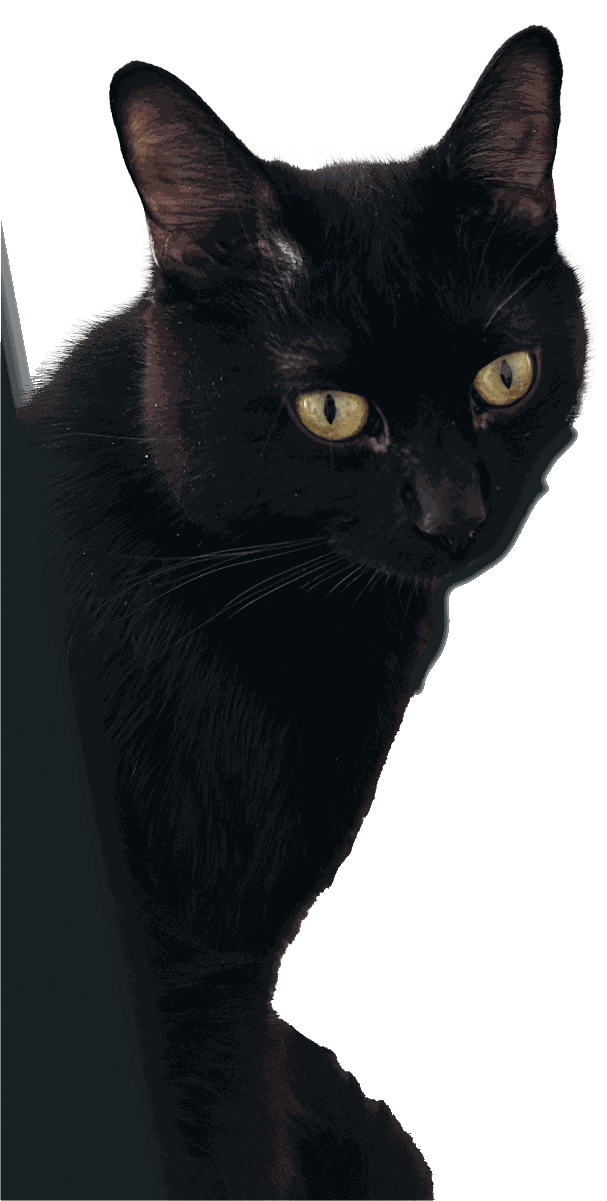
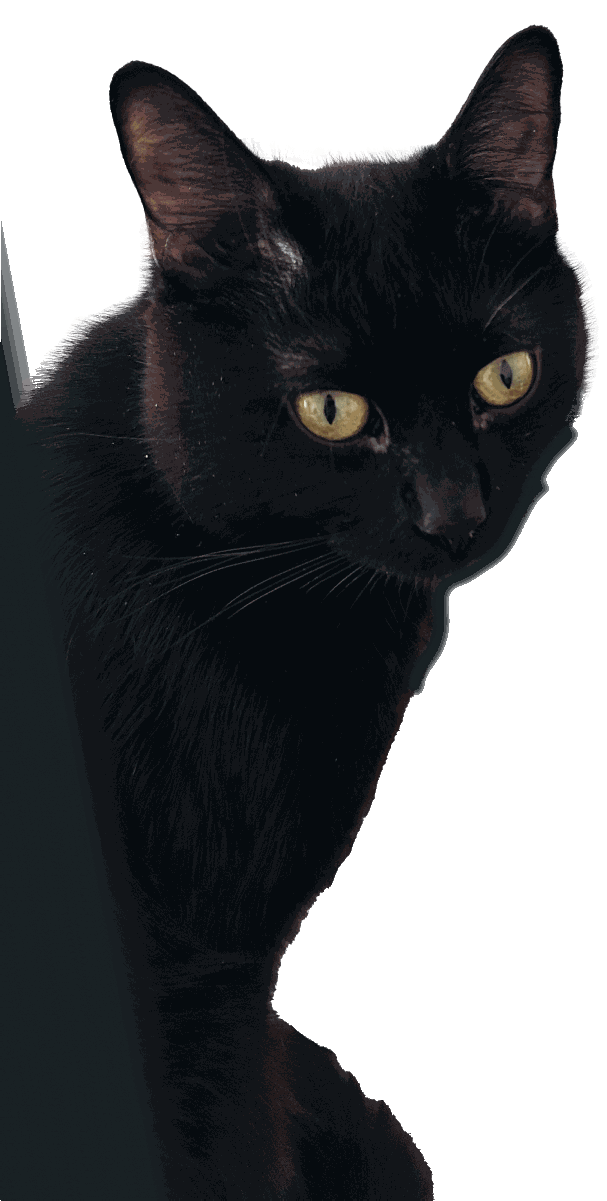
Кот не перекрывает картинку в «Как всё устроено по шагам», подчищен край mascot/kotkins.png
Кот в шапке секции (position:absolute) свешивался ниже своей группы больше,
чем margin-bottom шапки, и наезжал на картинку первой строки — картинка была
непозиционирована и потому всегда рисовалась под котом независимо от порядка
в разметке. На оригинале в этом месте картинка выигрывает стекинг (тот же
z-index, но позже в DOM), поэтому здесь у .steps__img выставлены явные
position:relative и z-index:1 — картинка теперь поверх, кот выглядывает
из-за неё, как на живой странице.

Заодно вычищен mascot/kotkins.png (используется в четырёх местах: steps,
who, ytch, pricing): убран 1px полупрозрачный кант вдоль левого и нижнего
края канваса (остаток экспорта) и проведена деконтаминация цвета
полупрозрачных пиксельных краёв — их RGB подтянут к цвету ближайшей
непрозрачной шерсти вместо светлого оттенка фона-источника, из-за которого
на светлой карточке тарифа контур кота светился сероватым ореолом.

diff --git a/microservices/index.html b/microservices/index.html
@@ -976,7 +976,24 @@
      галочки нет ни у одного шага вовсе, это была отсебятина заброшенного
      порта. .steps__check и .steps__check svg удалены вместе с разметкой —
      класс без правил и правила без разметки одинаково не нужны. */
-  .steps__img { display: block; width: 100%; height: auto; border-radius: var(--r-lg); background: var(--bg-primary); border: 1px solid var(--border-card); }
+  /* Правка (заход 18): на широких экранах .steps__cat (position:absolute,
+     top:-26px, внутри .steps__mascot-group) высотой ~237px при развёрнутом
+     облачке ~82px свешивается из шапки секции на ~130px ниже её низа — это
+     больше, чем margin-bottom шапки (48px), и кот залезает в первую строку
+     .steps__list поверх картинки со средой разработки. На живом оригинале
+     (rec765428053, .t843) в этом месте то же самое пересечение геометрии,
+     но побеждает картинка — у её обёртки (.t843) z-index:3, у пары кот+
+     облачко (.t396__elem) тоже z-index:3, и при равенстве побеждает
+     DOM-порядок: разметка картинки идёт позже. У нас же картинка вообще не
+     позиционирована (position:static), а кот — позиционирован (через
+     position:relative у родителя .steps__mascot-group), поэтому по правилам
+     CSS-стекинга непозиционированный контент всегда рисуется под любым
+     позиционированным независимо от порядка в разметке — кот побеждал
+     всегда, вне зависимости от геометрии. Фикс — сделать картинку тоже
+     позиционированной с явным z-index выше кота (у которого z-index не
+     задан, т.е. auto): этого достаточно, чтобы картинка выигрывала стекинг
+     без подбора отступов и без z-index на самом коте. */
+  .steps__img { display: block; width: 100%; height: auto; border-radius: var(--r-lg); background: var(--bg-primary); border: 1px solid var(--border-card); position: relative; z-index: 1; }
   /* Правка (заход 8, п.4): на оригинале заголовок шага набран 600-м, а не
      500-м начертанием, трекинг обычный (getComputedStyle на "Смотришь
      видеоуроки и ходишь…" — font-weight:600, letter-spacing:normal). */
